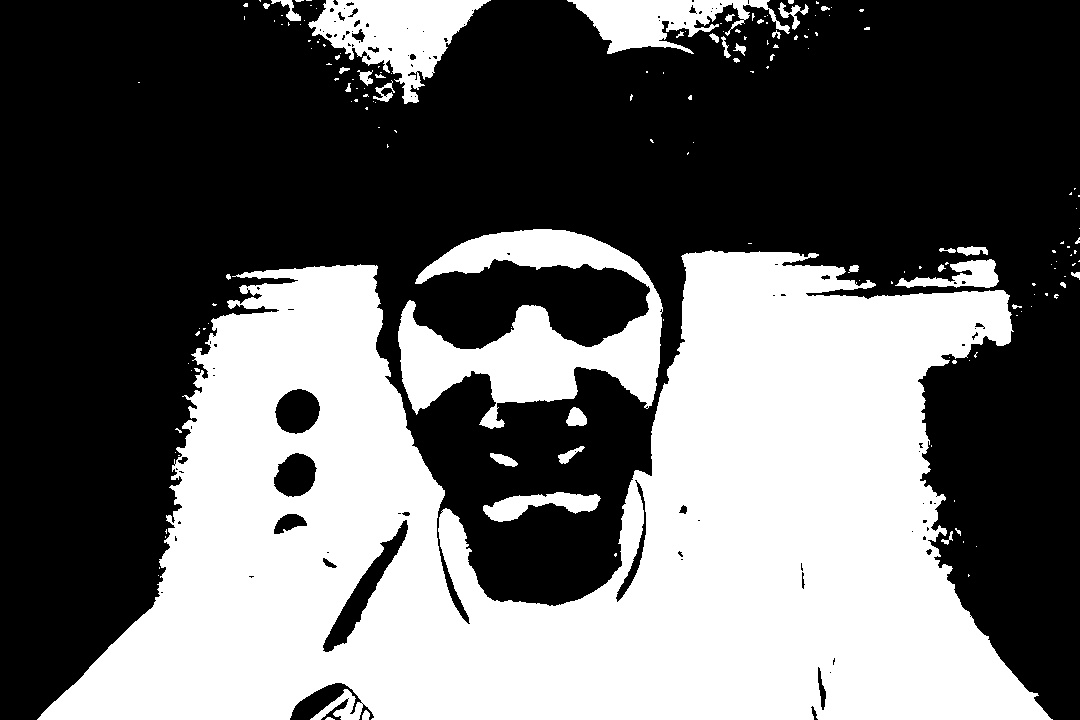
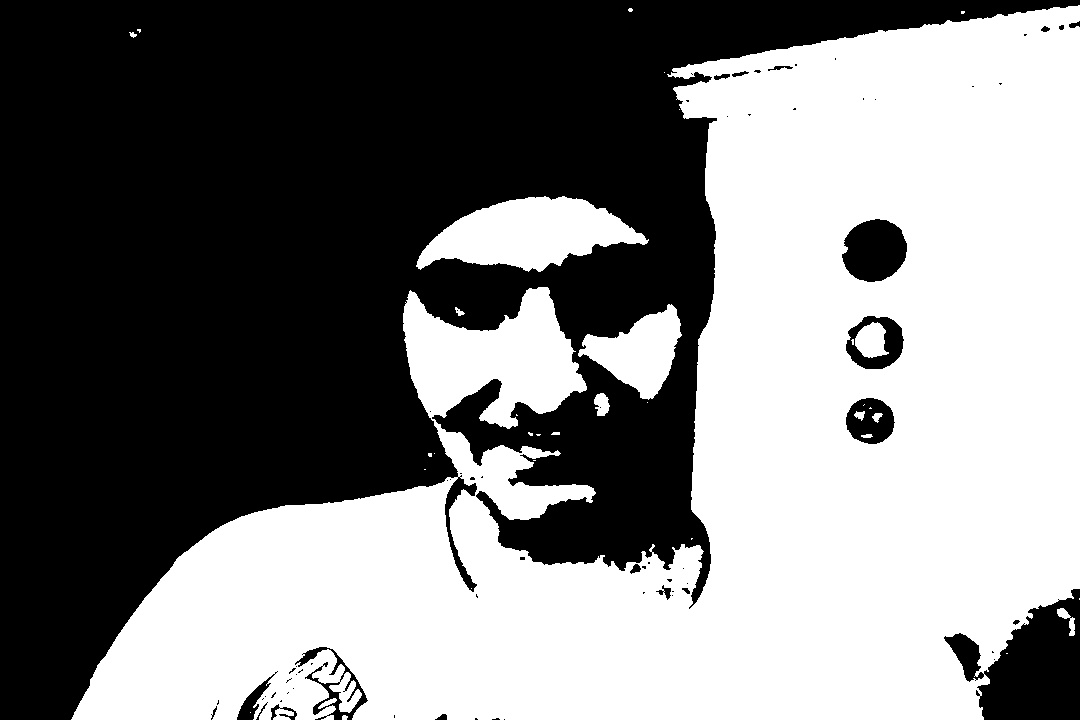
assignment 3 complete

diff --git a/assignments/a3/main.py b/assignments/a3/main.py
@@ -2,28 +2,44 @@ import cv2
 import numpy as np
 
 img = cv2.imread("img.jpg", 1)
-img = cv2.resize(img, (0, 0), fx=0.5, fy=0.5)
+# img = cv2.resize(img, (0, 0), fx=0.5, fy=0.5)
 
-cv2.imshow('grey scale', img)
+cv2.imshow('original', img)
 
-hsv = cv2.cvtColor(img, cv2.COLOR_BGR2HSV)
+gray = cv2.cvtColor(img, cv2.COLOR_BGR2GRAY)
+cv2.imshow('gray', gray)
 
-steps = 20
-mid = 150
+blurred = cv2.GaussianBlur(255 - gray, ksize=(41, 41),
+                            sigmaX=10, sigmaY=10)
+cv2.imshow('blurred', blurred)
 
-for i in range(1, steps + 1):
-    black_upper = np.array([255, 255, mid * i / steps])
-    black_lower = np.array([0, 0, mid * (i - 1) / steps])
-    black_mask = cv2.inRange(hsv, black_lower, black_upper)
-    if i > steps // 3:
-        img[black_mask > 0] = [mid * (i) / steps] * 3
-    else:
-        img[black_mask > 0] = [0] * 3
+def dodgeV2(image, mask):
+    return cv2.divide(image, 255-mask, scale=256)
 
-white_upper = np.array([255, 255, 255])
-white_lower = np.array([0, 0, mid])
-white_mask = cv2.inRange(hsv, white_lower, white_upper)
+final = dodgeV2(gray, blurred)
 
-img[white_mask > 0] = [255, 255, 255]
+# hsv = cv2.cvtColor(img, cv2.COLOR_BGR2HSV)
+#
+# steps = 20
+# mid = 150
+#
+# for i in range(1, steps + 1):
+#     black_upper = np.array([255, 255, mid * i / steps])
+#     black_lower = np.array([0, 0, mid * (i - 1) / steps])
+#     black_mask = cv2.inRange(hsv, black_lower, black_upper)
+#     if i > steps // 3:
+#         img[black_mask > 0] = [mid * (i) / steps] * 3
+#     else:
+#         img[black_mask > 0] = [0] * 3
+#
+# white_upper = np.array([255, 255, 255])
+# white_lower = np.array([0, 0, mid])
+# white_mask = cv2.inRange(hsv, white_lower, white_upper)
+#
+# img[white_mask > 0] = [255, 255, 255]
 
-cv2.imshow('black and white', img)
+cv2.imshow('sketch', final)
+cv2.imwrite('sketch.jpg', final)
+
+cv2.waitKey(0)
+cv2.destroyAllWindows()

diff --git a/assignments/a3/live.py b/assignments/a3/live.py
@@ -1,0 +1,39 @@
+import numpy as np
+import cv2
+
+cap = cv2.VideoCapture(1)
+
+while True:
+    ret, img = cap.read()
+    img = cv2.resize(img, (0, 0), fx=0.5, fy=0.5)
+    width = int(cap.get(3))
+    height = int(cap.get(4))
+
+    cv2.imshow('original', img)
+
+    gray = cv2.cvtColor(img, cv2.COLOR_BGR2GRAY)
+    cv2.imshow('gray', gray)
+
+    blurred = cv2.GaussianBlur(255 - gray, ksize=(41, 41),
+                               sigmaX=10, sigmaY=10)
+    cv2.imshow('blurred', blurred)
+
+    def dodgeV2(image, mask):
+        return cv2.divide(image, 255 - mask, scale=256)
+
+    def burnV2(image, mask):
+        val = 255 - cv2.divide(255 - image, 255 - mask, scale=256)
+        return val
+
+    final = dodgeV2(gray, blurred)
+
+    cv2.imshow('final', final)
+    cv2.imshow('original', img)
+
+    k = cv2.waitKey(1)
+    if k == ord('q'):
+        break
+
+cap.release()
+cv2.destroyAllWindows()
+cv2.waitKey(1)
